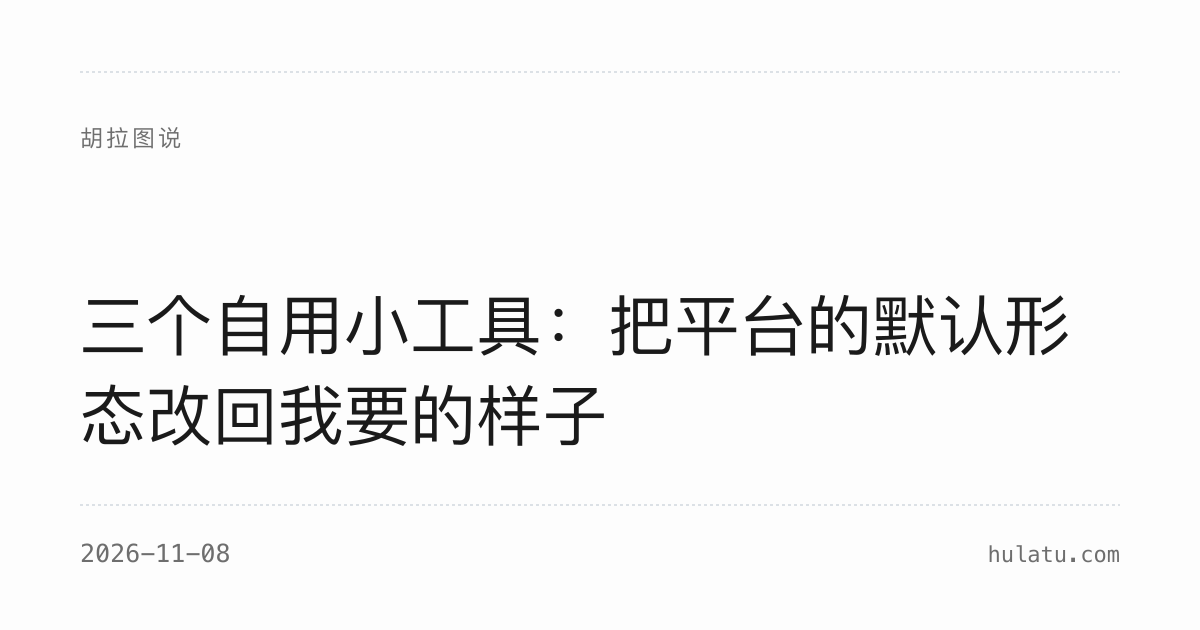
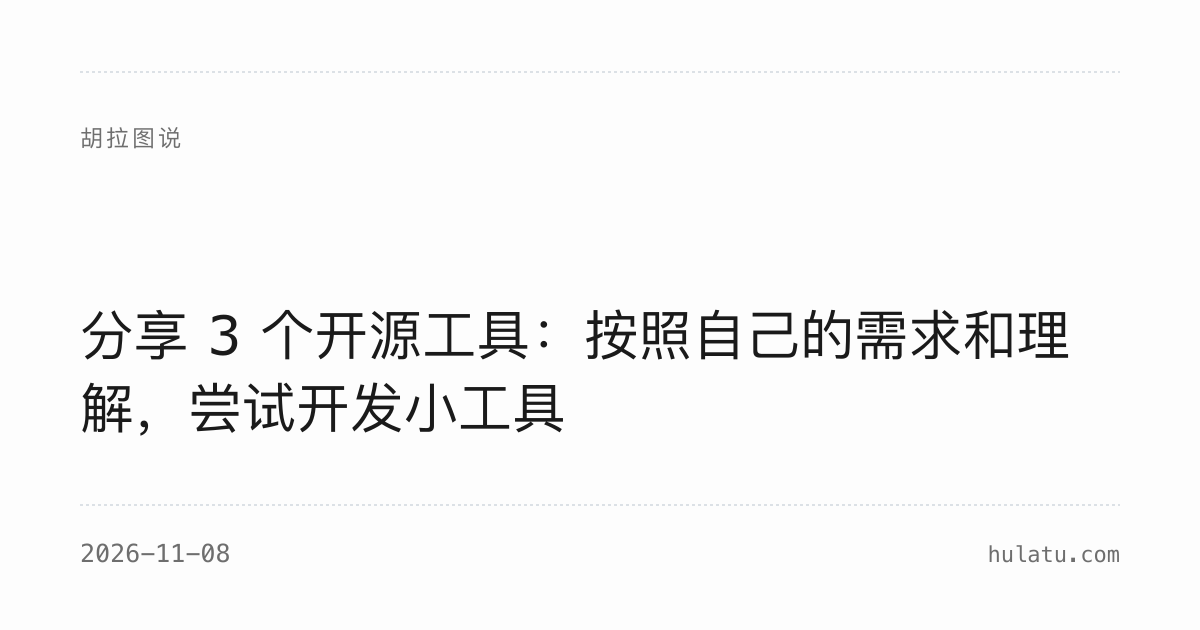
博客：新增/修改文章

Changed region(s): [[0.0617, 0.4524, 0.8942, 0.573], [0.0617, 0.6032, 0.4933, 0.7238]]

diff --git a/content/posts/三个自用小工具.md b/content/posts/三个自用小工具.md
@@ -1,10 +1,10 @@
 ---
-title: 三个自用小工具：把平台的默认形态改回我要的样子
+title: 分享 3 个开源工具：按照自己的需求和理解，尝试开发小工具
 featured: true
 categories: ["工具"]
 tags: ["自建", "脚本", "效率", "开源", "内容"]
 date: 2026-11-08T11:45:00+08:00
-lastmod: 2026-11-08T14:47:46+08:00
+lastmod: 2026-11-08T14:53:16+08:00
 slug: three-small-tools
 summary: 分享 3 个效率工具：个人工具的使命，就是满足自己的个性化需求。。
 description: "开源三个自用工具，分别是——文章分发台、少数派阅读增强、快捷键网页全屏。个人工具的使命，就是满足个人的个性化需求。"
@@ -17,8 +17,12 @@ comments: true
 > 本篇文章关于「工具」的优势和功能介绍部分，使用了更专业的 AI 辅助说明，便于大家更好的理解我创作的工具。
 >
 > 开发这几个工具的前因后果、背景，都是源于我个人的真实体验，也由我个人亲自撰写。
+>
+> 工具或许还不完美，但我也调试、完善了很多轮，希望大家不喜勿喷，多多提出有建设性的建议。
+>
+> 谢过大家！
 
-做了 3 个好用的工具，分享给大家：
+最近做了 3 个好用的工具，分享给大家：
 
 我喜欢写 [博客](https://hulatu.com/) ，但是常常一篇稿子写完，事情才刚开始。
 
@@ -137,13 +141,13 @@ comments: true
 
 这三个东西虽然感觉不同类别、不同风格，但其实做法和目标却很明确、很专一：
 
-**只做一件事，但把那一件做到底。** 分发台不做发布，少数派脚本不改内容，全屏脚本不管 iframe 里的播放器。边界划清楚，反而敢在每个边界内做深。
+**只做一件事，但把那一件做到底** ：分发台不做发布，少数派脚本不改内容，全屏脚本不管 iframe 里的播放器。边界划清楚。
 
-**不联网、不碰账号、数据留在本地。** 三个都没有服务端。Key 在 `localStorage`，已读记录在 `localStorage`，视频脚本连一个请求都不发。
+**不联网、不碰账号、数据留在本地**： 三个工具都没有服务端，Key 在 `localStorage`，已读记录在 `localStorage`，视频脚本一个请求都不发送。
 
-**参数全部摊在开头。** 三个脚本/工具都有一个 `CFG` 或者设置面板，默认值写在那，想改直接改。因为默认值永远不可能对所有人正确 —— 你的窗口大小、你的站点、你的阅读习惯都跟我不同。
+**参数全部摊在开头**： 三个工具都有一个 `CFG` 或者设置面板，默认值写在那，想改直接改。因为默认值永远不可能对所有人正确 —— 你的窗口大小、你的站点、你的阅读习惯或许都跟我不同。
 
-**都开源，MIT。** 改坏了别找我，改好了欢迎提交分享。
+**都开源，MIT**： 改坏了别找我，改好了欢迎提交分享。
 
 ## 安装方法
 
